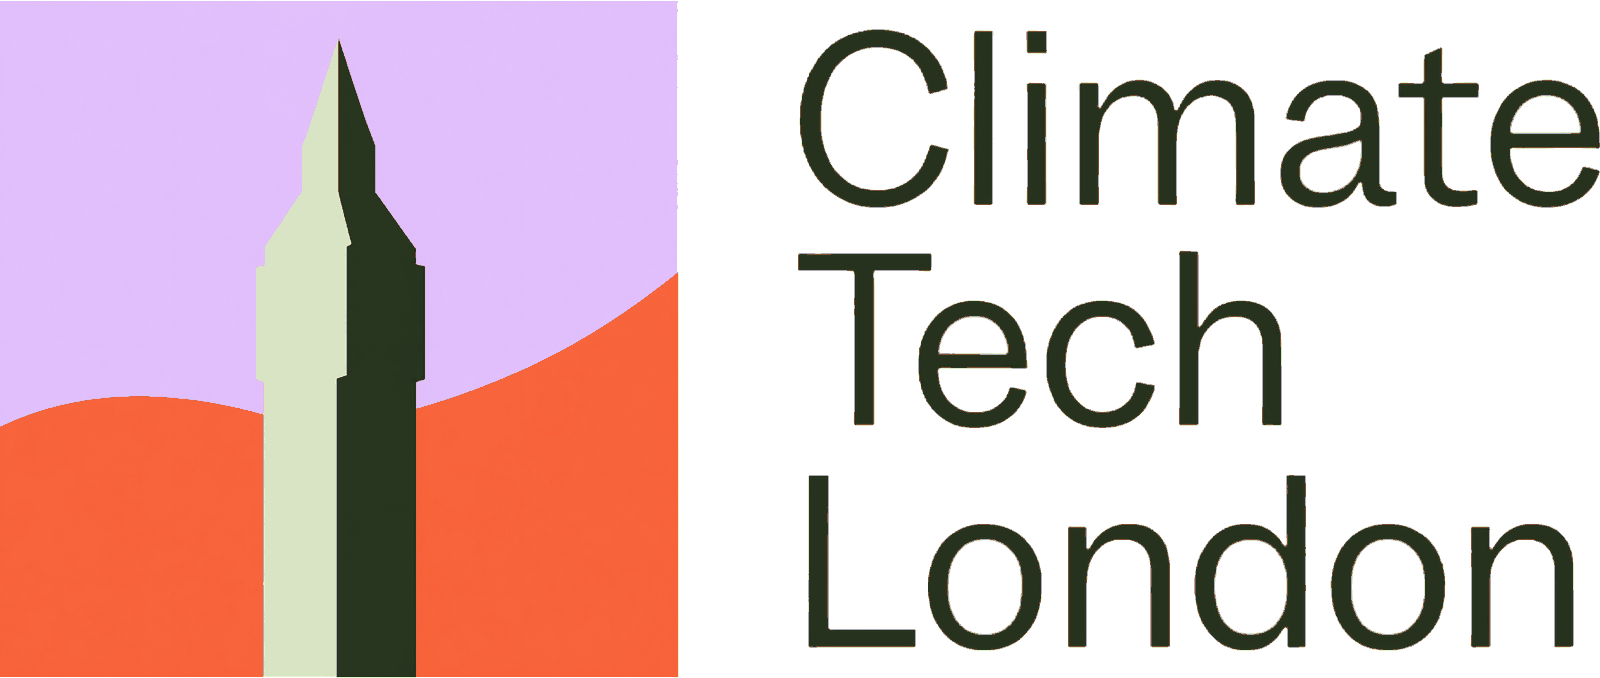
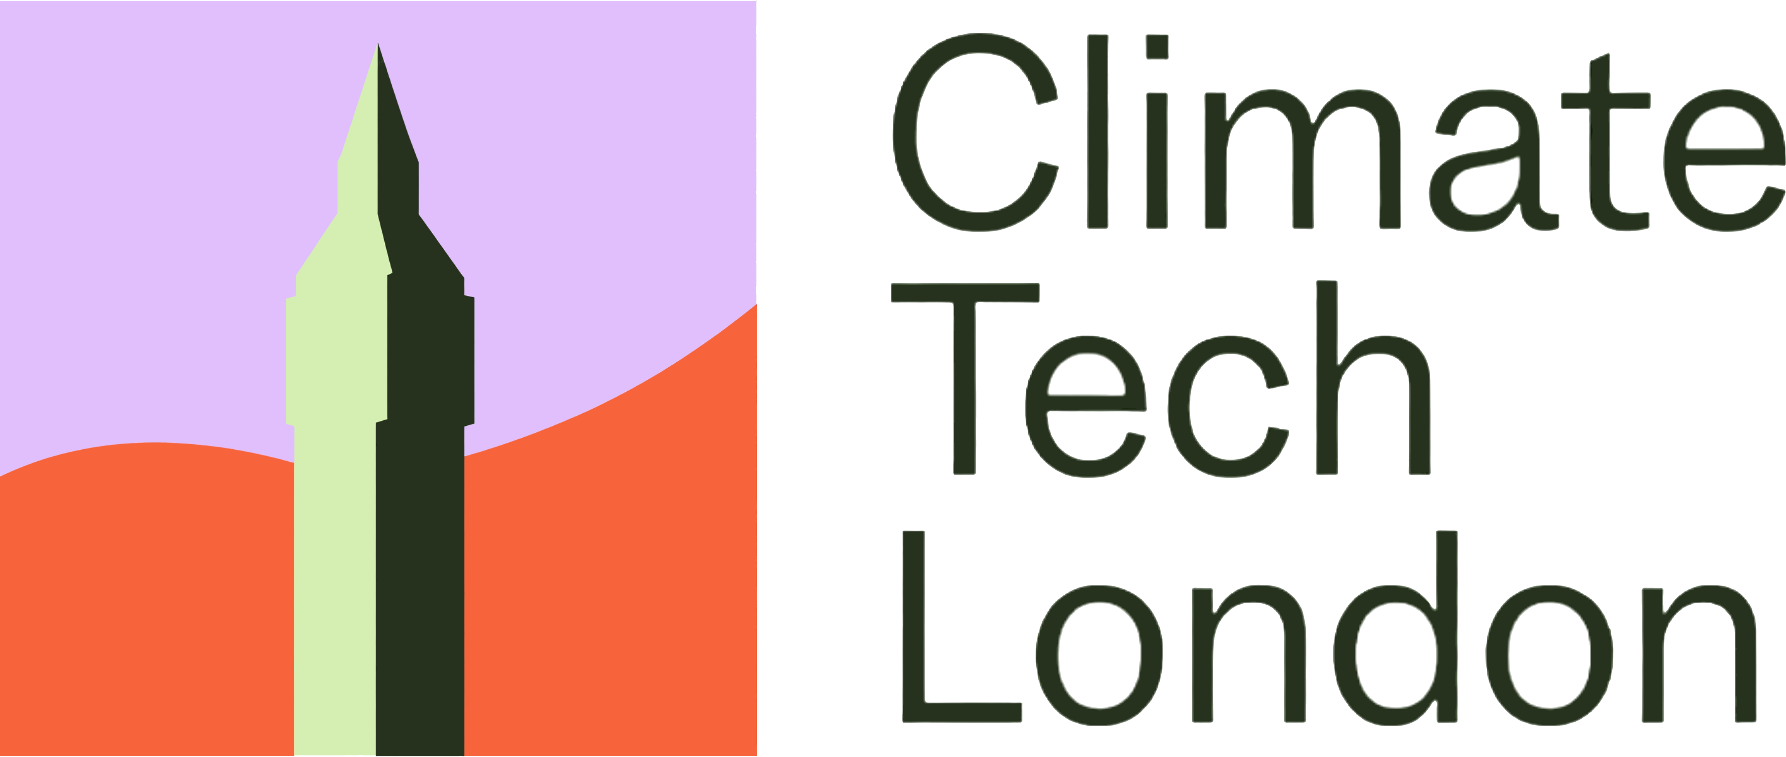
Rebuild brand references from official artwork at full quality
The previous set looked low resolution because it was palette quantised
to 32 colours with dithering. On flat vector marks that speckles every
anti-aliased edge. Quantisation is gone.

Icons now come from Climate Tech Cities' own CDN, the files the live site
serves: Chicago and London at 2500px and New York at 964px, replacing a
231px New York that had no usable detail. Those sources carry compression
noise, storing one flat lavender field as thousands of near-identical
shades, so a denoise pass snaps near-identical pixels onto the mark's
actual colours and leaves real edges alone. That restores the flat look
the artwork is supposed to have and drops the icons from 922KB to 36KB.

Set is now the three chapters asked for, each shown as a lockup or an
icon and never twice: Chicago and London lockups, and Chicago, London and
New York icons. The Cities parent mark is dropped. New York has no
lockup because none is published anywhere; only its icon exists.

diff --git a/index.html b/index.html
@@ -368,16 +368,26 @@
         <img src="downloads/brand/ctc-london.png" alt="Climate Tech London logo: the same square lavender icon format with an abstracted clock tower silhouette, beside the words Climate Tech London stacked on three lines." loading="lazy" />
         <figcaption>Climate Tech London</figcaption>
       </figure>
-      <figure class="logo-fig native">
-        <img src="downloads/brand/ctc-cities.png" alt="Climate Tech Cities master logo: the square lavender icon with a generic stepped building silhouette, beside the words Climate Tech Cities stacked on three lines." loading="lazy" />
-        <figcaption>Climate Tech Cities · the parent mark every chapter descends from</figcaption>
+    </div>
+    <p class="desc">Same lavender field, same orange horizon, same two greens, same wordmark, same proportions. Chicago gets the Willis Tower, London gets the clock tower, New York gets the Empire State. <strong>Only the silhouette moves.</strong> That is the whole system, and matching it is the entire job.</p>
+
+    <h3>The icon on its own</h3>
+    <p class="desc">The square is where all the work happens. These are the same three chapters with the wordmark cropped away, which is the clearest way to see how far the abstraction goes.</p>
+    <div class="grid grid-3" style="margin-top:16px;">
+      <figure class="logo-fig">
+        <img src="downloads/brand/ctc-chicago-icon.png" alt="Climate Tech Chicago icon: an abstracted Willis Tower in light and dark green planes with twin antennas, on lavender above an orange horizon." loading="lazy" />
+        <figcaption>Chicago · Willis Tower</figcaption>
       </figure>
-      <figure class="logo-fig native">
-        <img src="downloads/brand/ctc-new-york.png" alt="Climate Tech New York logo: the square lavender icon with an abstracted tower silhouette, beside the words Climate Tech New York stacked on three lines." loading="lazy" />
-        <figcaption>Climate Tech New York</figcaption>
+      <figure class="logo-fig">
+        <img src="downloads/brand/ctc-london-icon.png" alt="Climate Tech London icon: an abstracted clock tower in light and dark green planes, on lavender above an orange horizon." loading="lazy" />
+        <figcaption>London · the clock tower</figcaption>
+      </figure>
+      <figure class="logo-fig">
+        <img src="downloads/brand/ctc-new-york-icon.png" alt="Climate Tech New York icon: an abstracted Empire State Building in light and dark green planes, on lavender above an orange horizon." loading="lazy" />
+        <figcaption>New York · the Empire State</figcaption>
       </figure>
     </div>
-    <p class="desc">Same lavender field, same orange horizon, same two greens, same wordmark, same proportions. Chicago gets the Willis Tower, London gets the clock tower, New York gets its own tower. Only the silhouette moves. That is the whole system, and matching it is the entire job.</p>
+    <p class="desc">Notice how little detail survives. Two planes, a light side and a dark side, and a handful of steps. If your city's landmark still has windows or a spire made of several pieces, it is not abstracted far enough yet.</p>
 
     <ol class="steps" style="margin-top:36px;">
       <li>
@@ -392,19 +402,14 @@
       <li>
         <h3>Attach the reference logos</h3>
         <p class="desc">Attach these to the same ChatGPT message. The prompt describes the house style in words, but the references are what actually hold it: without them you get something in the right colours and the wrong proportions.</p>
-        <p class="desc" style="margin-bottom:6px;"><strong>Attach these four.</strong> Between them they pin down the proportions, the palette and the range of silhouettes.</p>
+        <p class="desc" style="margin-bottom:6px;"><strong>Attach all five.</strong> The lockups set the proportions and the wordmark; the icons show how far to abstract the landmark.</p>
         <ul class="dl-list">
-          <li><span><a href="downloads/brand/ctc-chicago.png" download>ctc-chicago.png</a> · full lockup, high resolution</span><span class="pill time">best reference</span></li>
-          <li><span><a href="downloads/brand/ctc-london.png" download>ctc-london.png</a> · full lockup, high resolution</span><span class="pill time">best reference</span></li>
-          <li><span><a href="downloads/brand/ctc-cities.png" download>ctc-cities.png</a> · the parent mark</span></li>
-          <li><span><a href="downloads/brand/ctc-new-york.png" download>ctc-new-york.png</a> · New York chapter</span></li>
+          <li><span><a href="downloads/brand/ctc-chicago.png" download>ctc-chicago.png</a> · Chicago lockup, icon and wordmark</span><span class="pill time">lockup</span></li>
+          <li><span><a href="downloads/brand/ctc-london.png" download>ctc-london.png</a> · London lockup, icon and wordmark</span><span class="pill time">lockup</span></li>
+          <li><span><a href="downloads/brand/ctc-chicago-icon.png" download>ctc-chicago-icon.png</a> · Chicago icon</span><span class="pill time">icon</span></li>
+          <li><span><a href="downloads/brand/ctc-london-icon.png" download>ctc-london-icon.png</a> · London icon</span><span class="pill time">icon</span></li>
+          <li><span><a href="downloads/brand/ctc-new-york-icon.png" download>ctc-new-york-icon.png</a> · New York icon</span><span class="pill time">icon</span></li>
         </ul>
-        <p class="desc" style="margin-bottom:6px;margin-top:20px;">Optional, and useful if the icon keeps coming back too busy. These are the icon squares on their own, with the wordmark cropped away:</p>
-        <ul class="dl-list">
-          <li><span><a href="downloads/brand/ctc-chicago-icon.png" download>ctc-chicago-icon.png</a> · icon only</span></li>
-          <li><span><a href="downloads/brand/ctc-london-icon.png" download>ctc-london-icon.png</a> · icon only</span></li>
-        </ul>
-        <div class="note">The Cities and New York marks are the canonical originals but only exist at small size, so lean on Chicago and London for proportions and use those two to confirm you have the right family.</div>
       </li>
       <li>
         <h3>Ask for ten concepts, then pick one</h3>

diff --git a/CHANGELOG.md b/CHANGELOG.md
@@ -95,3 +95,11 @@ All toolkit releases. The site reads `version.json`; this file is the human-read
 - Icon crops are located by the icon's own palette and a contiguous column walk, instead of assuming a square at the left edge, which had produced off-centre crops
 - Added the two canonical marks from the logo generator skill: the Climate Tech Cities parent mark and Climate Tech New York. Four chapters shown, six files to download
 - Chicago and London are high resolution and carry the proportions; Cities and New York exist only at small size and render at native size rather than upscaling
+
+## 5.2.0 - 2026-08-04
+
+- Fixed the brand reference resolution. The previous set was palette quantised to 32 colours with dithering, which speckles anti-aliased edges on flat vector marks and reads as low resolution. Quantisation removed
+- Icons now come from the Climate Tech Cities CDN, the files the live site serves: Chicago and London at 2500px, New York at 964px, replacing a 231px New York
+- Added a denoise pass that snaps compression noise onto the mark's real colours, restoring flat colour fields and cutting the icons from 922KB to 36KB
+- Set is now three chapters with no repeats: Chicago and London lockups, plus Chicago, London and New York icons. The Cities parent mark is dropped
+- New York is icon only, because no New York lockup is published
